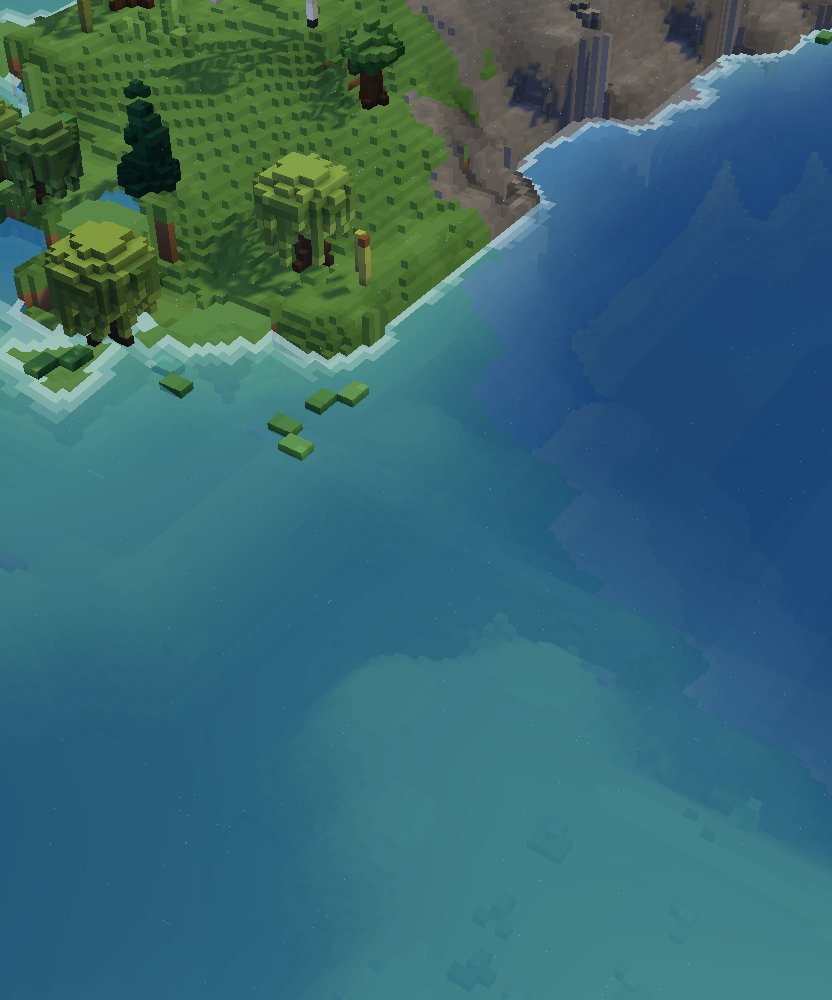
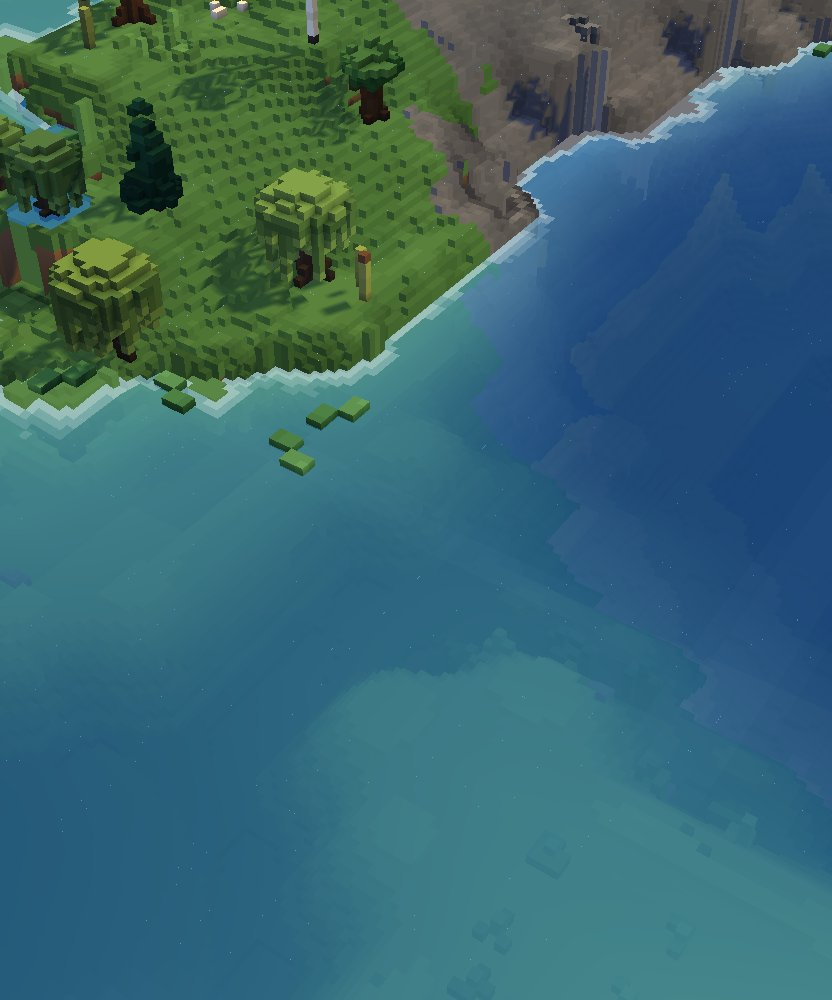
Weed cap raised to 256 clumps a chunk; frames taken again
The cap ranks every cell of a chunk, which thinned weed in most chunks at 128.
The capped-chunk check now picks a chunk where the cap leaves clumps out.

Claude-Session: https://claude.ai/code/session_01NxvtAnVeeSftkua711EPa8

Changed region(s): [[0.0, 0.0, 1.0, 0.496]]

diff --git a/scripts/lake-weed-test.ts b/scripts/lake-weed-test.ts
@@ -209,7 +209,7 @@ export function lakeWeedChecks(check: Check): void {
     for (const r of rs) if (r.ratio < WEED_LIGHT_LO - 0.02 || r.ratio > WEED_LIGHT_HI + 0.02) band++;
     check(
       `lake weed (${name}): weed and stones grow on its lakes' beds`,
-      weed.length > 50 && cells.size > 30,
+      weed.length > 100 && cells.size > 30,
       `${rs.length} columns raised, ${weed.length} of them weed two eighths tall or more, in ${cells.size} cells`,
     );
     check(
@@ -346,23 +346,37 @@ export function lakeWeedChecks(check: Check): void {
     const world = make();
     const b = withLevel("high", true, () => build(world));
     const t = b.terrain;
+    // The chunk over the cap (its cells' clumps, every cell counted, as the cap ranks them) with the
+    // most cells of weed, and how many of its weed cells' clumps the cap leaves out: the check is
+    // void unless the cap leaves some out.
     let best = -1;
     let most = 0;
+    let dropped = 0;
+    let all = 0;
     let cells: number[] = [];
     for (let c = 0; c < t.cols * t.rows; c++) {
       const f = withLevel("high", true, () => t.readFine(c));
-      let n = 0;
       const grows: number[] = [];
+      let land = -1;
+      let out = 0;
       for (let y = f.y0; y < f.y1; y++)
         for (let x = f.x0; x < f.x1; x++) {
           const k = fineAt(f, x, y);
           if (!(f.weed[k] & WEED_GROWS)) continue;
-          n += weedClumps(x, y, f.weedLand[k]);
+          land = f.weedLand[k];
+          const ranks: number[] = [];
+          weedClumps(x, y, land, ranks);
+          for (const r of ranks) if (r >= f.weedKeep[k]) out++;
           grows.push(y * world.w + x);
         }
-      if (n > most) {
-        most = n;
+      if (land < 0) continue;
+      let n = 0;
+      for (let y = f.y0; y < f.y1; y++) for (let x = f.x0; x < f.x1; x++) n += weedClumps(x, y, land);
+      if (n > WEED_CAP_CHUNK && out > 0 && grows.length > most) {
+        most = grows.length;
         best = c;
+        dropped = out;
+        all = n;
         cells = grows;
       }
     }
@@ -375,8 +389,8 @@ export function lakeWeedChecks(check: Check): void {
     const whole = withLevel("high", true, () => build(world));
     check(
       "lake weed: a chunk at the cap drawn again in part after its lake freezes in part is the island drawn whole",
-      most > WEED_CAP_CHUNK && hashOf(b, "land") === hashOf(whole, "land"),
-      `chunk ${best}, ${most} clumps in its weed's cells; drawn in part ${hashOf(b, "land")}, whole ${hashOf(whole, "land")}`,
+      best >= 0 && cells.length >= 12 && hashOf(b, "land") === hashOf(whole, "land"),
+      `chunk ${best}: ${all} clumps over its cells (cap ${WEED_CAP_CHUNK}), ${most} cells of weed, ${dropped} of their clumps left out by the cap; drawn in part ${hashOf(b, "land")}, whole ${hashOf(whole, "land")}`,
     );
   }
 

diff --git a/src/sim/voxel/terrain-fine.ts b/src/sim/voxel/terrain-fine.ts
@@ -230,7 +230,7 @@ export const WEED_MIN = 4;
 export const WEED_MAX = 12;
 export const WEED_TALL = 6;
 // At most this many clumps a chunk (Terrain.readFine keeps those of the lowest ranks).
-export const WEED_CAP_CHUNK = 128;
+export const WEED_CAP_CHUNK = 256;
 const WEED_PERIOD = 3.5;
 const WEED_PATCH = 0.6;
 const WEED_MIX = 0.55;
